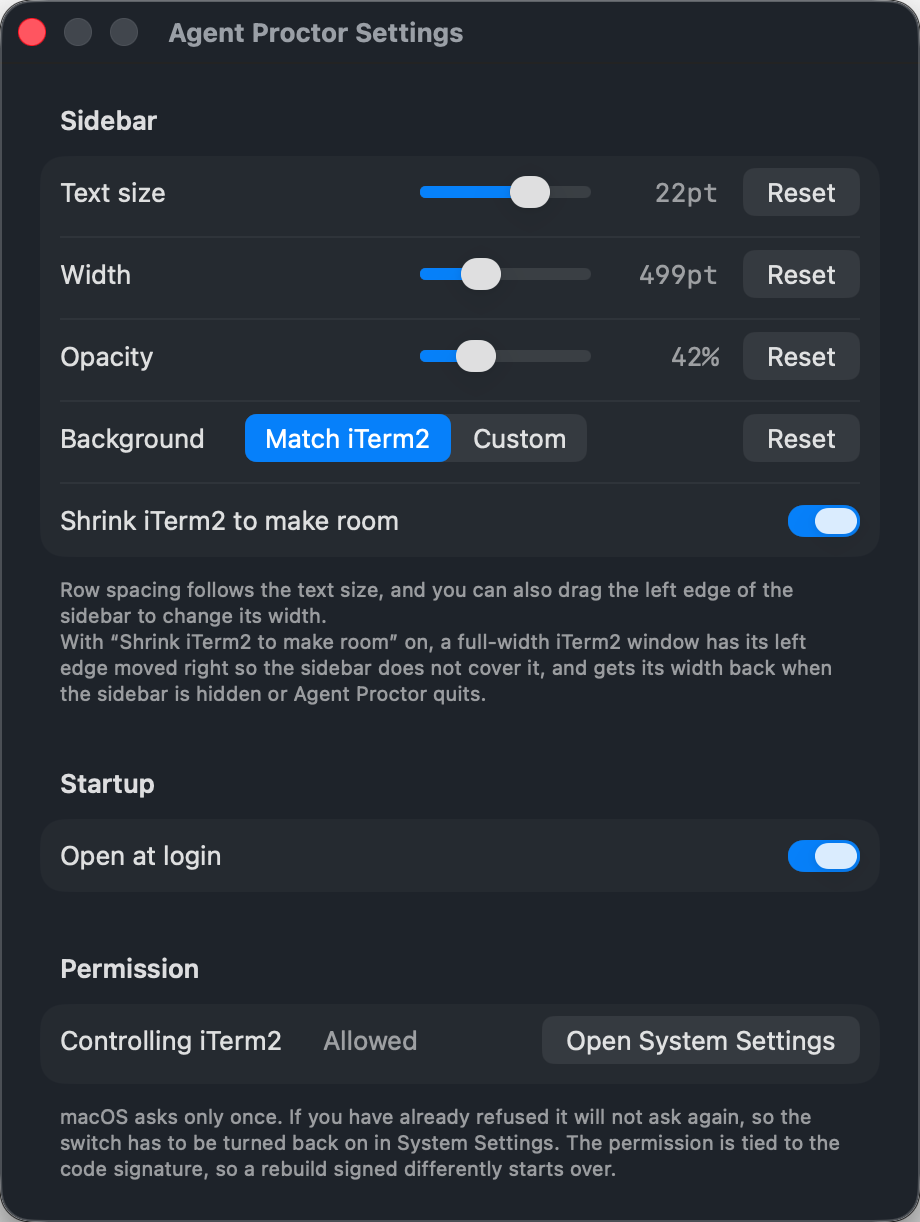
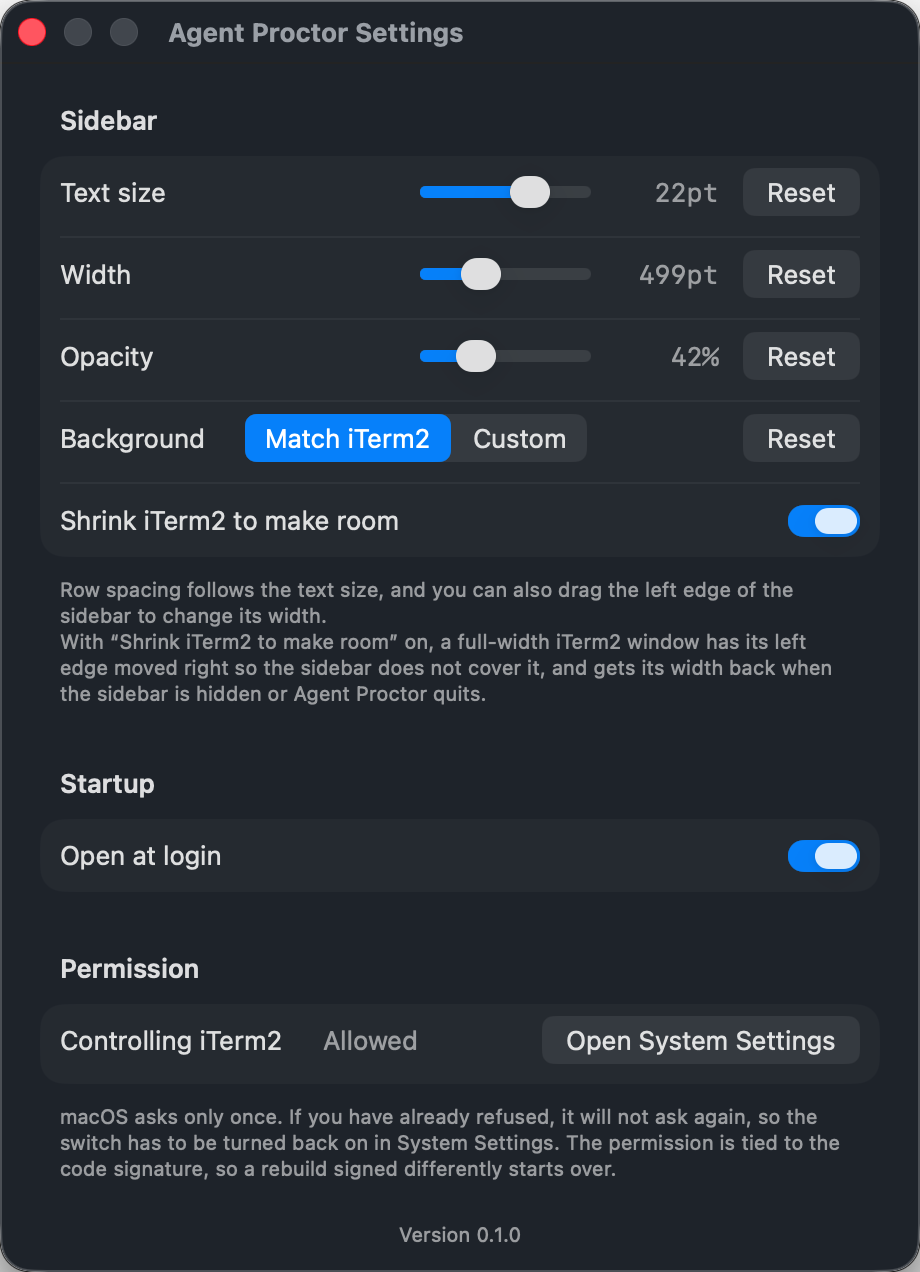
Retake the settings picture with the version on it
The last one was taken a commit before the version line existed. Same crop as
the others, window only, no shadow, and taller by the one line it gained.

Standing the version outside the form groups turned out to sit flat: the form
and the window carry the same background here, so there is no seam where one
ends and the other begins.

diff --git a/README.ja.md b/README.ja.md
@@ -205,7 +205,7 @@ scripts/sign-app.sh "/Applications/Agent Proctor.app"
 「設定…」で「ログイン時に起動」を入れておくと、次からは自動で立ち上がる。
 
 <p align="center">
-  <img src="docs/images/settings.png" alt="設定ウィンドウ。文字の大きさ・幅・不透明度・下地・iTerm2 の幅を詰める設定、ログイン時に起動、iTerm2 の操作を許可しているか" width="460">
+  <img src="docs/images/settings.png" alt="設定ウィンドウ。文字の大きさ・幅・不透明度・下地・iTerm2 の幅を詰める設定、ログイン時に起動、iTerm2 の操作を許可しているか、バージョン" width="460">
 </p>
 
 ## 使い方

diff --git a/README.md b/README.md
@@ -221,7 +221,7 @@ Open *Settings…* and turn on *Open at login*, and it will start on its own fro
 then on.
 
 <p align="center">
-  <img src="docs/images/settings.png" alt="The settings window: sidebar text size, width, opacity, background, the make-room toggle, open at login, and whether controlling iTerm2 is allowed" width="460">
+  <img src="docs/images/settings.png" alt="The settings window: sidebar text size, width, opacity, background, the make-room toggle, open at login, whether controlling iTerm2 is allowed, and the version" width="460">
 </p>
 
 ## Usage
